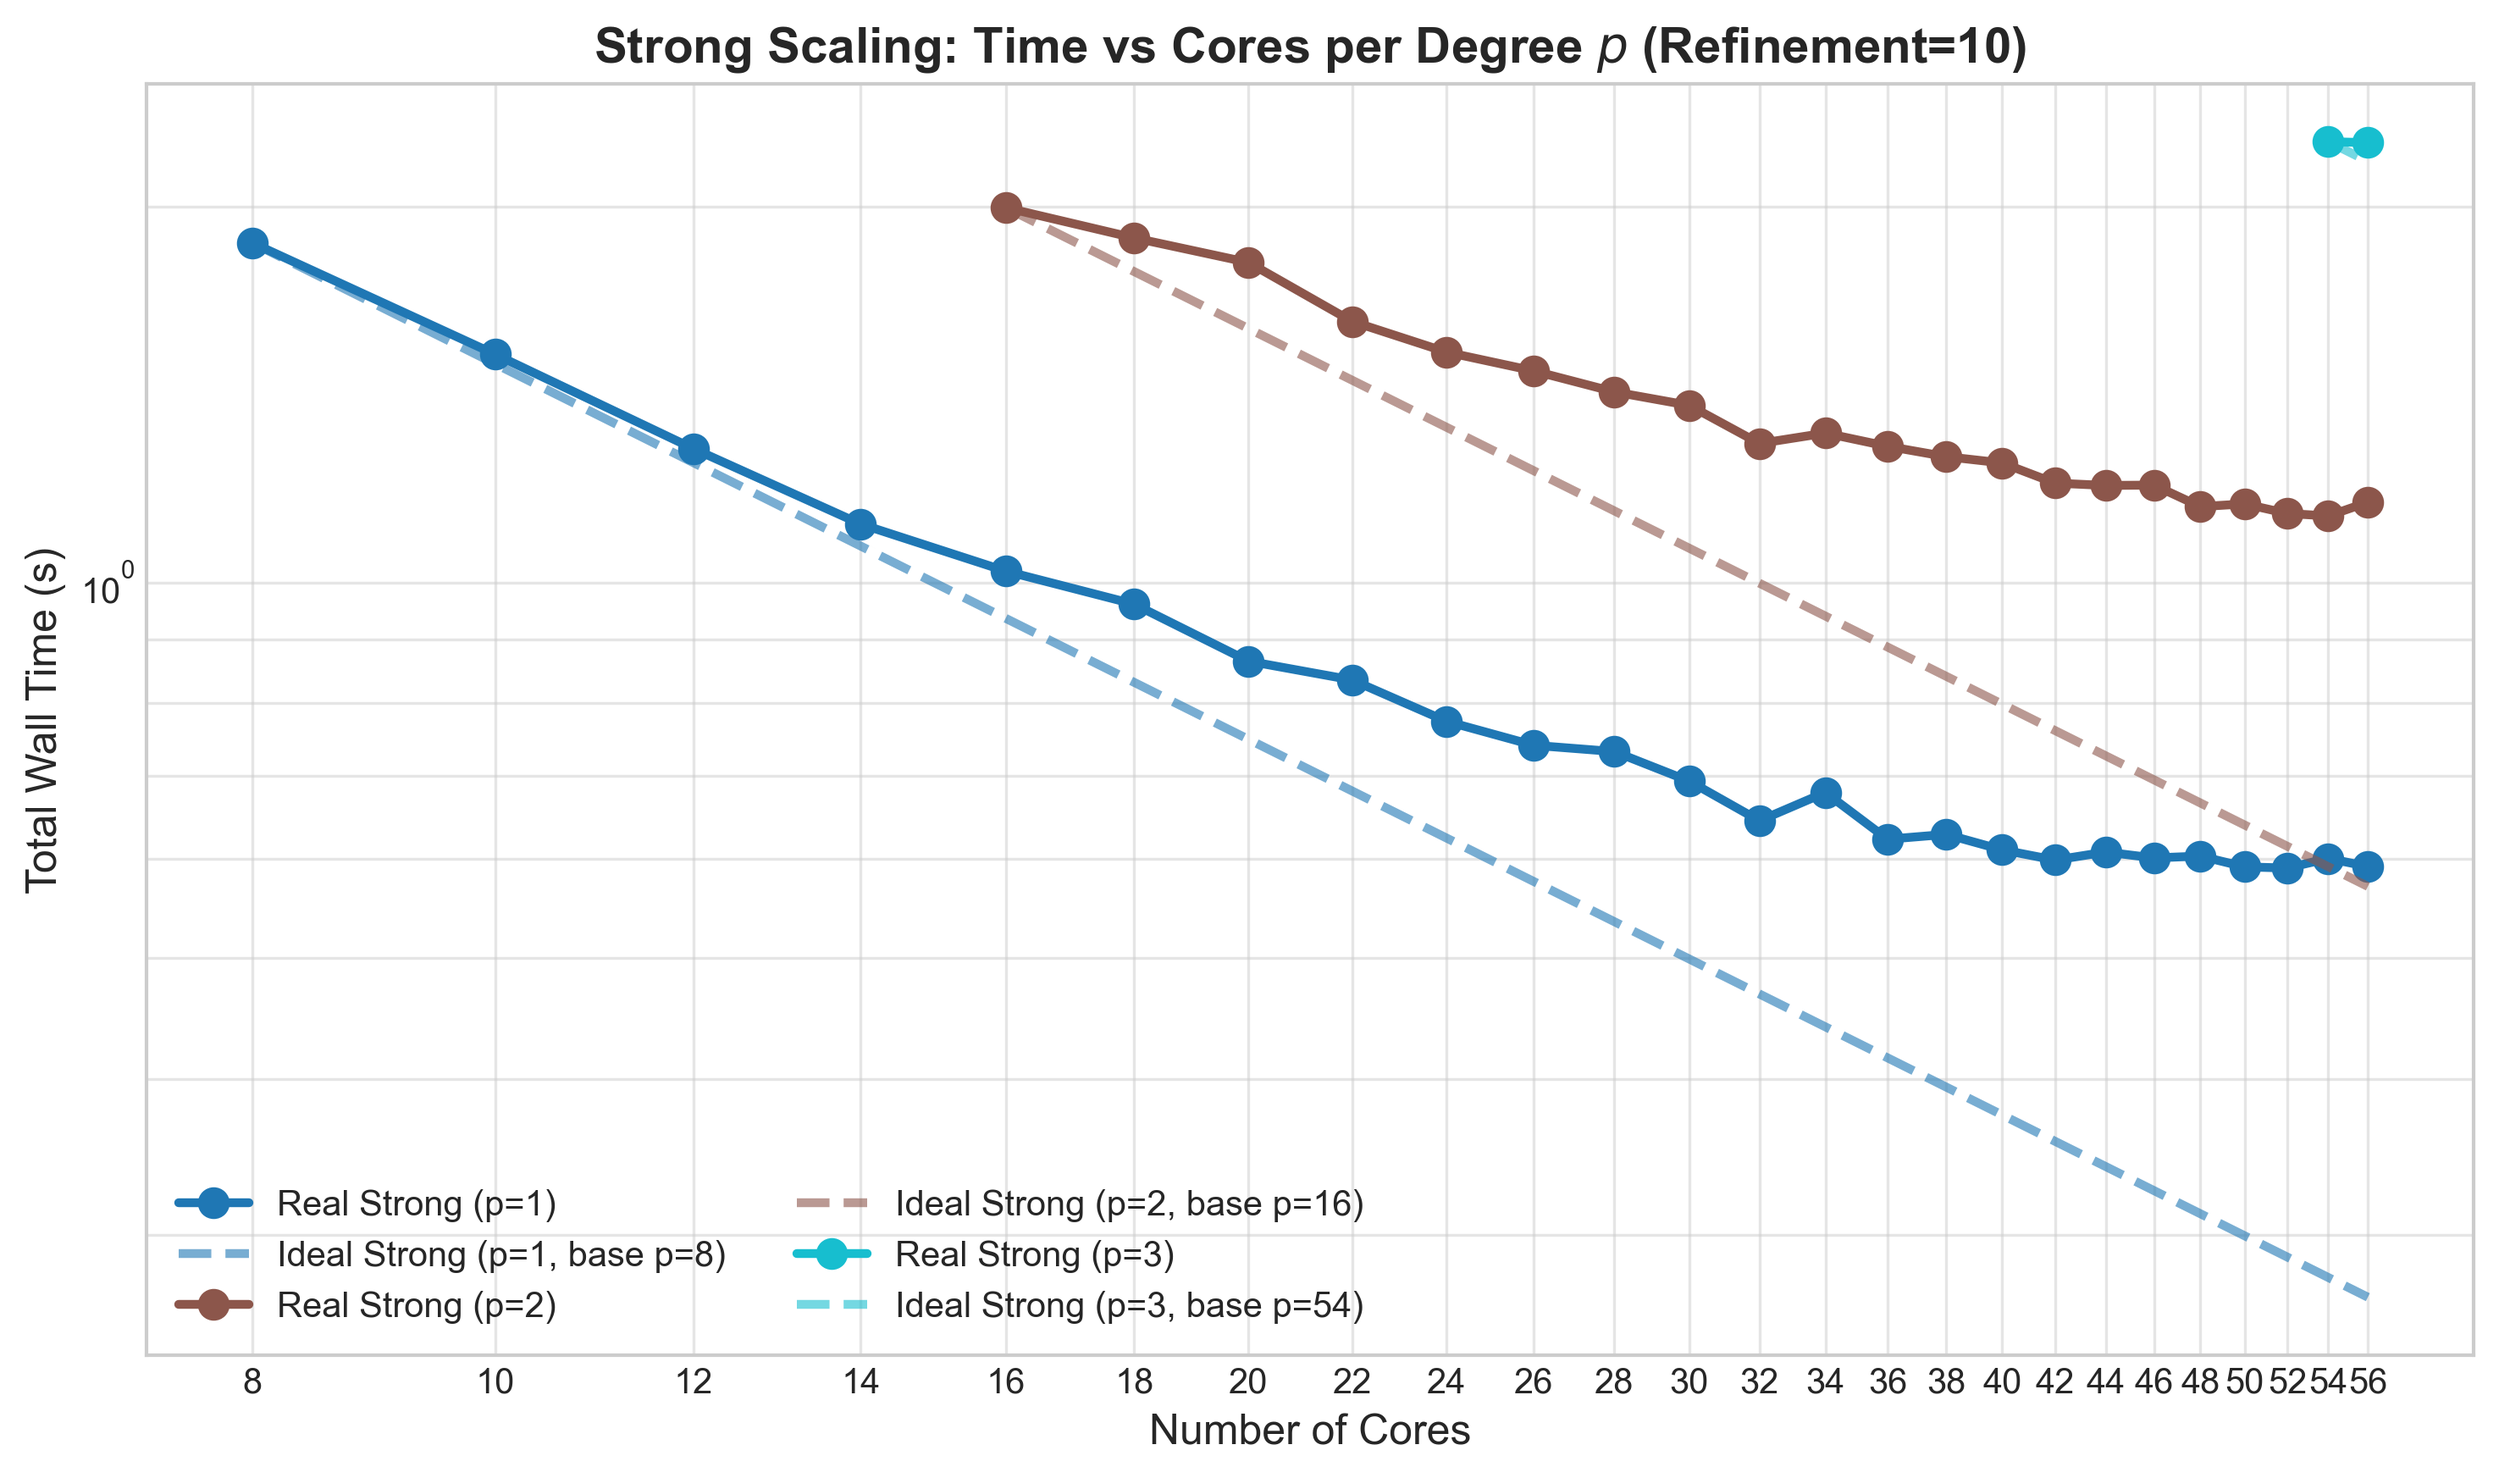
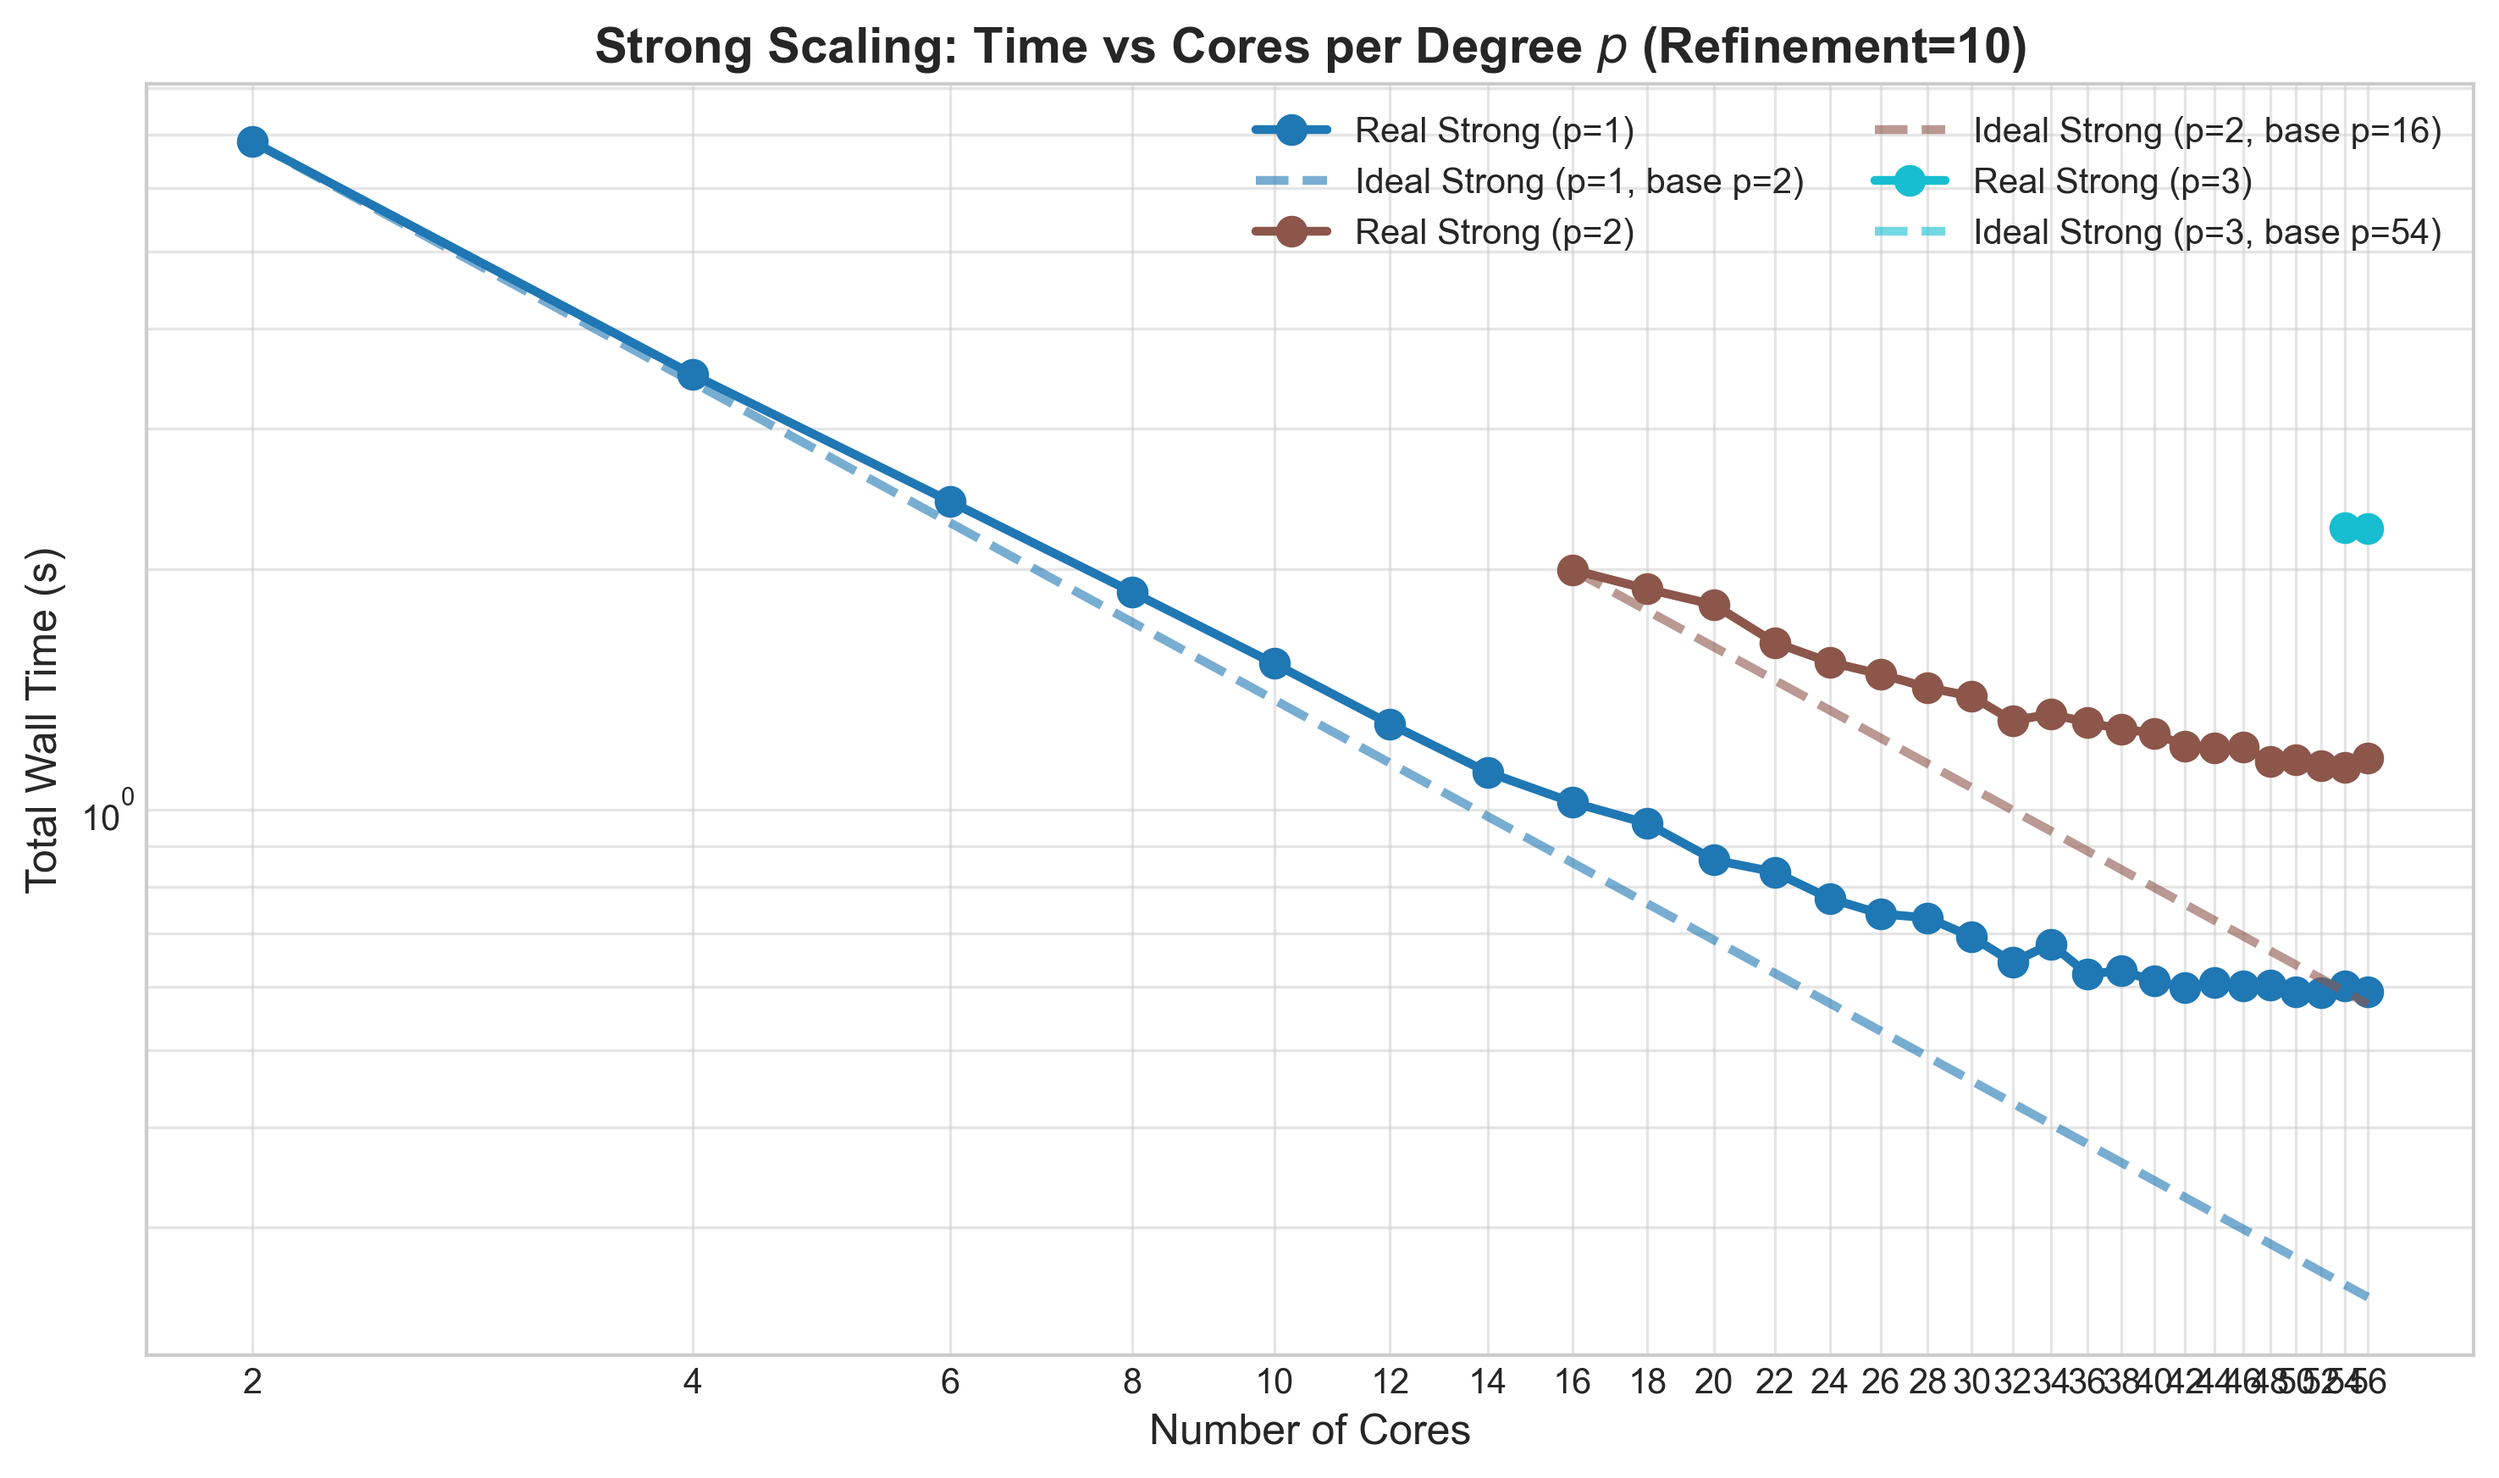
Fix plotting of weak scalability

diff --git a/plot/weak_scaling.py b/plot/weak_scaling.py
@@ -83,7 +83,7 @@ def plot_time_strong_scaling_per_p(df, refinement):
     subset = subset[subset['Cores'] % 2 == 0]
 
     # 2. Per p = 1, parti da 8 core (scarta i casi dove Degree==1 e Cores<8)
-    subset = subset[~((subset['Degree'] == 1) & (subset['Cores'] < 8))]
+    subset = subset[~((subset['Degree'] == 1) & (subset['Cores'] < 2))]
     # ----------------------------------
 
     if subset.empty:
